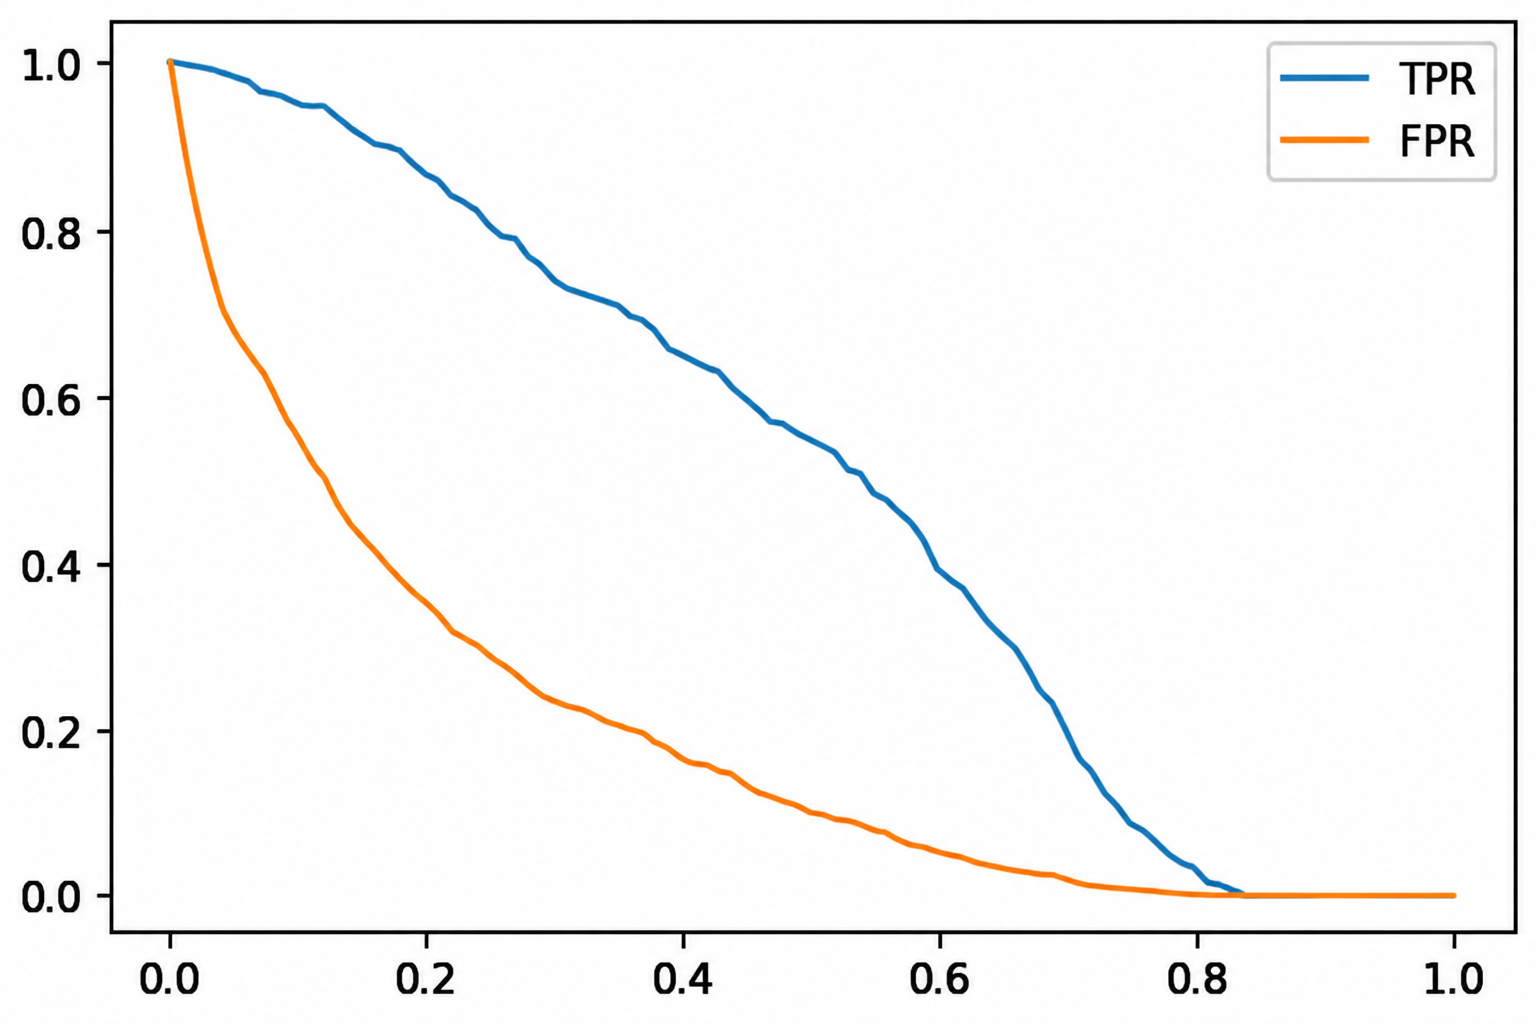
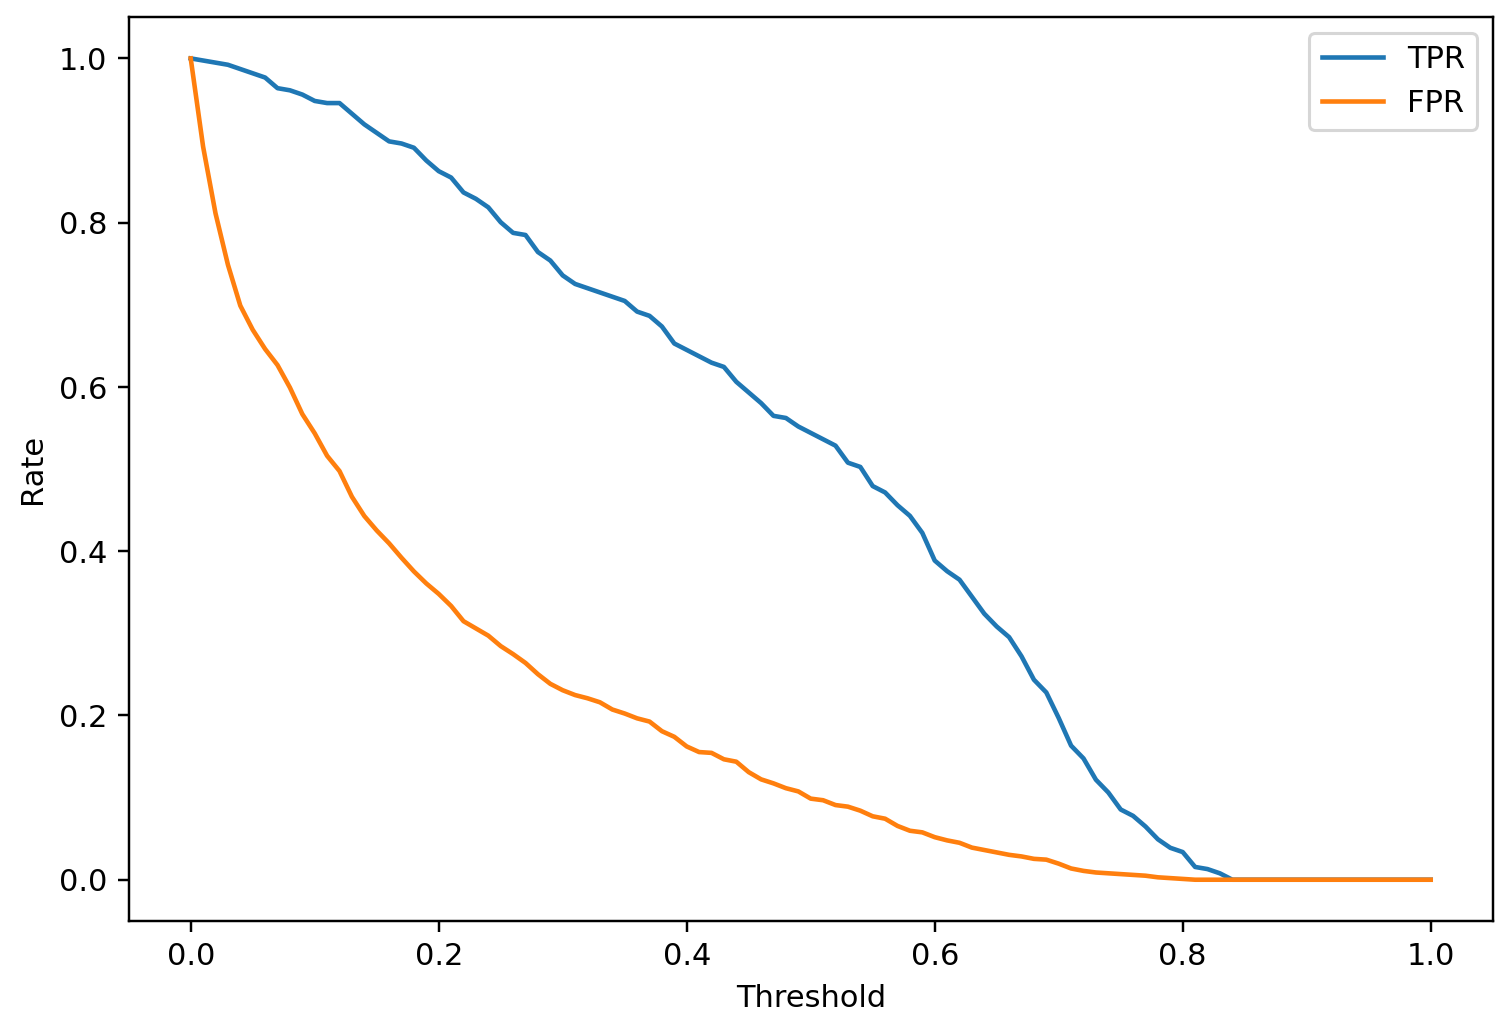
Render evaluation ROC threshold plots

Changed region(s): [[0.0, 0.0, 0.996, 1.0], [0.5914, 0.5, 0.6225, 0.5625], [0.0, 0.4375, 0.0311, 0.5]]

diff --git a/cohorts/2026/04-evaluation/images/2026-09-09-roc-01-03-render.py b/cohorts/2026/04-evaluation/images/2026-09-09-roc-01-03-render.py
@@ -1,0 +1,206 @@
+#!/usr/bin/env python3
+"""Render ROC lesson plots 01/02/03 from the exact notebook data path.
+
+This renderer deliberately writes only the three threshold plots owned by the
+current repair task. ROC 04/05/06 have a separate renderer and are not touched.
+"""
+
+from __future__ import annotations
+
+import argparse
+import hashlib
+import tempfile
+import urllib.request
+from pathlib import Path
+
+import matplotlib
+
+matplotlib.use("Agg")
+import matplotlib.pyplot as plt
+import numpy as np
+import pandas as pd
+from sklearn.feature_extraction import DictVectorizer
+from sklearn.linear_model import LogisticRegression
+from sklearn.model_selection import train_test_split
+
+
+DATA_URL = (
+    "https://raw.githubusercontent.com/alexeygrigorev/mlbookcamp-code/"
+    "master/chapter-03-churn-prediction/WA_Fn-UseC_-Telco-Customer-Churn.csv"
+)
[1 lines of base64/hex data omitted]
+
+NUMERICAL = ["tenure", "monthlycharges", "totalcharges"]
+CATEGORICAL = [
+    "gender",
+    "seniorcitizen",
+    "partner",
+    "dependents",
+    "phoneservice",
+    "multiplelines",
+    "internetservice",
+    "onlinesecurity",
+    "onlinebackup",
+    "deviceprotection",
+    "techsupport",
+    "streamingtv",
+    "streamingmovies",
+    "contract",
+    "paperlessbilling",
+    "paymentmethod",
+]
+
+
+def sha256(path: Path) -> str:
+    digest = hashlib.sha256()
+    with path.open("rb") as source:
+        for block in iter(lambda: source.read(1024 * 1024), b""):
+            digest.update(block)
+    return digest.hexdigest()
+
+
+def prepare_predictions(data_path: Path) -> tuple[np.ndarray, np.ndarray]:
+    if sha256(data_path) != DATA_SHA256:
+        raise ValueError(
+            f"unexpected source hash for {data_path}; expected {DATA_SHA256}"
+        )
+
+    df = pd.read_csv(data_path)
+    df.columns = df.columns.str.lower().str.replace(" ", "_")
+    categorical_columns = list(df.dtypes[df.dtypes == "object"].index)
+    for column in categorical_columns:
+        df[column] = df[column].str.lower().str.replace(" ", "_")
+
+    df.totalcharges = pd.to_numeric(df.totalcharges, errors="coerce")
+    df.totalcharges = df.totalcharges.fillna(0)
+    df.churn = (df.churn == "yes").astype(int)
+
+    df_full_train, _ = train_test_split(df, test_size=0.2, random_state=1)
+    df_train, df_val = train_test_split(
+        df_full_train, test_size=0.25, random_state=1
+    )
+    df_train = df_train.reset_index(drop=True)
+    df_val = df_val.reset_index(drop=True)
+
+    y_train = df_train.pop("churn").values
+    y_val = df_val.pop("churn").values
+
+    vectorizer = DictVectorizer(sparse=False)
+    train_dict = df_train[CATEGORICAL + NUMERICAL].to_dict(orient="records")
+    val_dict = df_val[CATEGORICAL + NUMERICAL].to_dict(orient="records")
+    x_train = vectorizer.fit_transform(train_dict)
+    x_val = vectorizer.transform(val_dict)
+
+    model = LogisticRegression()
+    model.fit(x_train, y_train)
+    y_pred = model.predict_proba(x_val)[:, 1]
+    return y_val, y_pred
+
+
+def threshold_frame(y_val: np.ndarray, y_pred: np.ndarray) -> pd.DataFrame:
+    rows = []
+    for threshold in np.linspace(0, 1, 101):
+        actual_positive = y_val == 1
+        actual_negative = y_val == 0
+        predict_positive = y_pred >= threshold
+        predict_negative = y_pred < threshold
+        tp = int((predict_positive & actual_positive).sum())
+        tn = int((predict_negative & actual_negative).sum())
+        fp = int((predict_positive & actual_negative).sum())
+        fn = int((predict_negative & actual_positive).sum())
+        rows.append(
+            {
+                "threshold": threshold,
+                "tpr": tp / (tp + fn),
+                "fpr": fp / (fp + tn),
+            }
+        )
+    return pd.DataFrame(rows)
+
+
+def save_figure(figure: plt.Figure, path: Path) -> None:
+    figure.savefig(
+        path,
+        dpi=220,
+        facecolor="white",
+        bbox_inches="tight",
+        pad_inches=0.08,
+    )
+    plt.close(figure)
+
+
+def render_plot(scores: pd.DataFrame, path: Path) -> None:
+    figure, axes = plt.subplots(figsize=(8, 5.3333333333))
+    axes.plot(scores.threshold, scores.tpr, label="TPR")
+    axes.plot(scores.threshold, scores.fpr, label="FPR")
+    axes.set_xlabel("Threshold")
+    axes.set_ylabel("Rate")
+    axes.legend()
+    save_figure(figure, path)
+
+
+def render(data_path: Path, output_dir: Path) -> None:
+    y_val, y_pred = prepare_predictions(data_path)
+
+    # These assertions are lesson facts and protect against silently using a
+    # different dataset, split, or model runtime.
+    assert len(y_val) == 1409
+    assert int((y_val == 0).sum()) == 1023
+    assert int((y_val == 1).sum()) == 386
+    model_at_half = threshold_frame(y_val, y_pred)
+    half = model_at_half.iloc[50]
+    assert tuple(
+        int(value)
+        for value in (
+            ((y_pred >= 0.5) & (y_val == 1)).sum(),
+            ((y_pred >= 0.5) & (y_val == 0)).sum(),
+            ((y_pred < 0.5) & (y_val == 1)).sum(),
+            ((y_pred < 0.5) & (y_val == 0)).sum(),
+        )
+    ) == (210, 101, 176, 922)
+    assert round(float(half.tpr), 12) == round(210 / 386, 12)
+    assert round(float(half.fpr), 12) == round(101 / 1023, 12)
+
+    np.random.seed(1)
+    y_rand = np.random.uniform(0, 1, size=len(y_val))
+    random_scores = threshold_frame(y_val, y_rand)
+
+    num_neg = int((y_val == 0).sum())
+    num_pos = int((y_val == 1).sum())
+    y_ideal = np.repeat([0, 1], [num_neg, num_pos])
+    y_ideal_pred = np.linspace(0, 1, len(y_val))
+    ideal_scores = threshold_frame(y_ideal, y_ideal_pred)
+
+    render_plot(
+        model_at_half,
+        output_dir / "05-roc-01-tpr-fpr-vs-threshold-crisp.png",
+    )
+    render_plot(
+        random_scores,
+        output_dir / "05-roc-02-random-model-tpr-fpr-crisp.png",
+    )
+    render_plot(
+        ideal_scores,
+        output_dir / "05-roc-03-ideal-model-tpr-fpr-crisp.png",
+    )
+
+
+def main() -> None:
+    parser = argparse.ArgumentParser()
+    parser.add_argument("--data-path", type=Path)
+    parser.add_argument("--output-dir", type=Path, required=True)
+    args = parser.parse_args()
+
+    args.output_dir.mkdir(parents=True, exist_ok=True)
+    if args.data_path:
+        render(args.data_path, args.output_dir)
+        return
+
+    with tempfile.TemporaryDirectory() as directory:
+        data_path = Path(directory) / "data-week-3.csv"
+        urllib.request.urlretrieve(DATA_URL, data_path)
+        render(data_path, args.output_dir)
+
+
+if __name__ == "__main__":
+    main()
